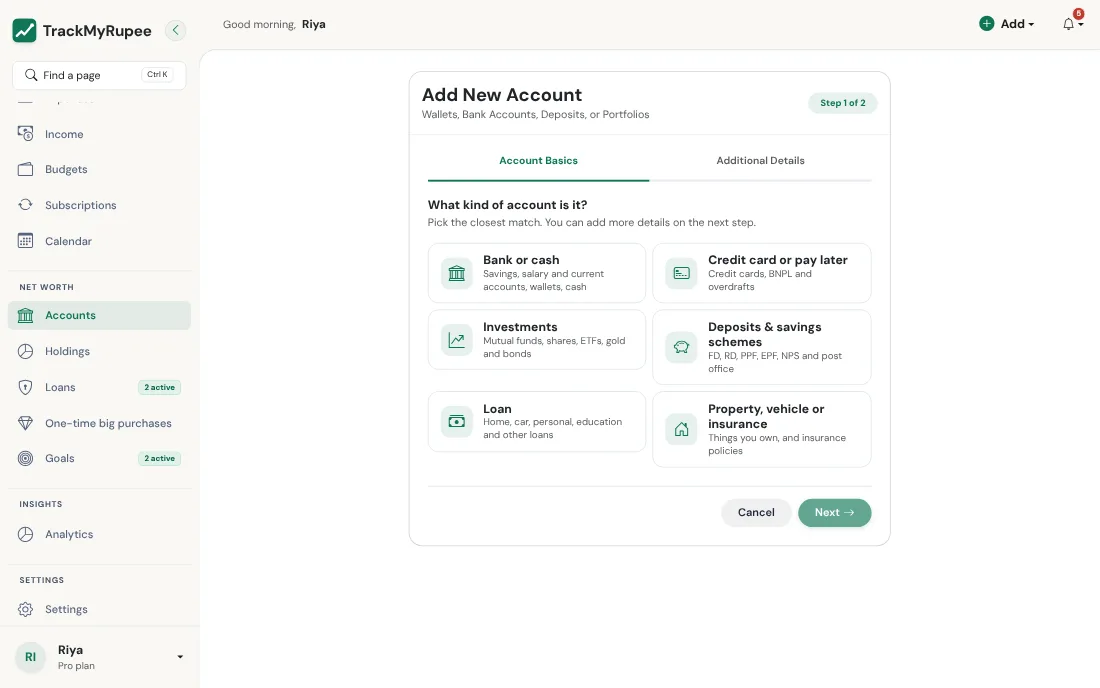
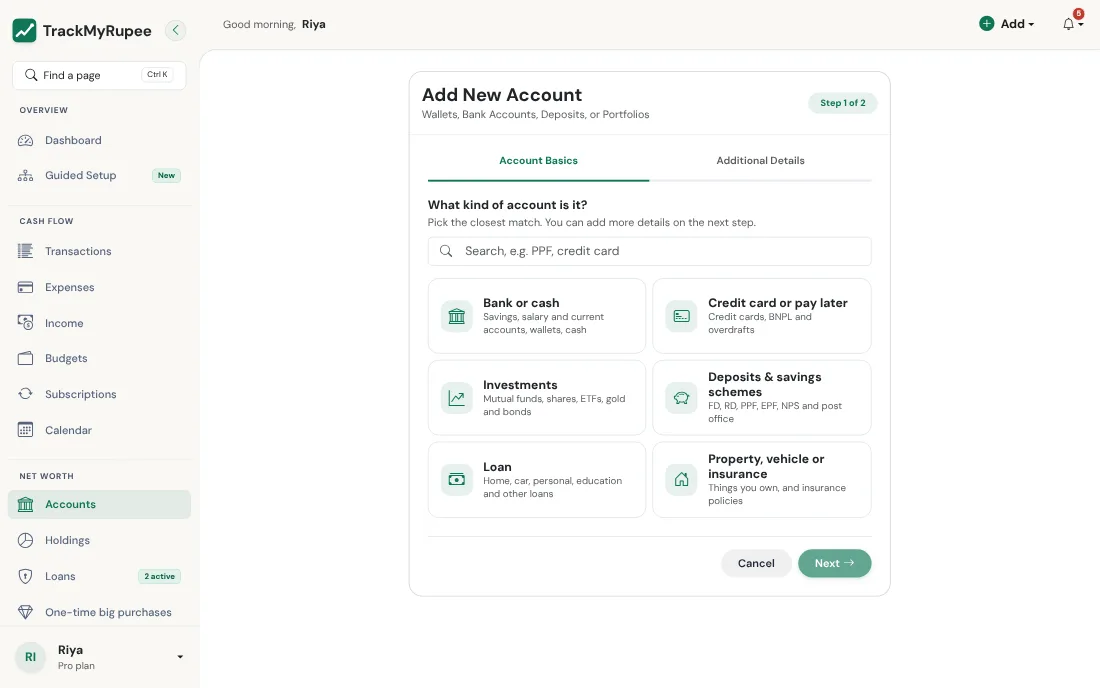
User guide: new Add account screenshots and text for the search
Regenerates the three Add account images for the compact grid, adds a screenshot of searching for
a type, and mentions the search in the guide text. The capture script gains the search shot.

Claude-Session: https://claude.ai/code/session_01LQRWHYQrwDzrgnaE4gZbvs

diff --git a/guide-src/02-accounts/index.md b/guide-src/02-accounts/index.md
@@ -42,10 +42,12 @@ Click **+ Add** next to Accounts in the sidebar on desktop, or tap **+ Add** on 
 
 ![Choosing the exact type inside a kind](img/add-account-type-desktop.webp){ loading=lazy }
 
+![Searching for a type](img/add-account-search-desktop.webp){ loading=lazy }
+
 
 The form is a two-step wizard. It starts by asking **what kind of account it is**, in plain words, and only then asks for the details:
 
-1. **Account Basics**: Pick the kind of account (**Bank or cash**, **Credit card or pay later**, **Investments**, **Deposits & savings schemes**, **Loan**, or **Property, vehicle or insurance**), then the exact type inside it, for example **Public Provident Fund (PPF)** under **Deposits & savings schemes**. Then enter the Account Name, Currency and Initial Balance. **Change** takes you back to pick a different type.
+1. **Account Basics**: Type what you have in the search box (for example `ppf`, `credit card` or `gold`) and pick the match, or pick the kind of account (**Bank or cash**, **Credit card or pay later**, **Investments**, **Deposits & savings schemes**, **Loan**, or **Property, vehicle or insurance**), then the exact type inside it, for example **Public Provident Fund (PPF)** under **Deposits & savings schemes**. Then enter the Account Name, Currency and Initial Balance. **Change** takes you back to pick a different type.
 2. **Type-specific fields**: Fill in details that apply to your account type. For example, Fixed Deposits show deposit terms and maturity date fields. Credit Cards show a credit limit field.
 
 Click **Save** when done.
